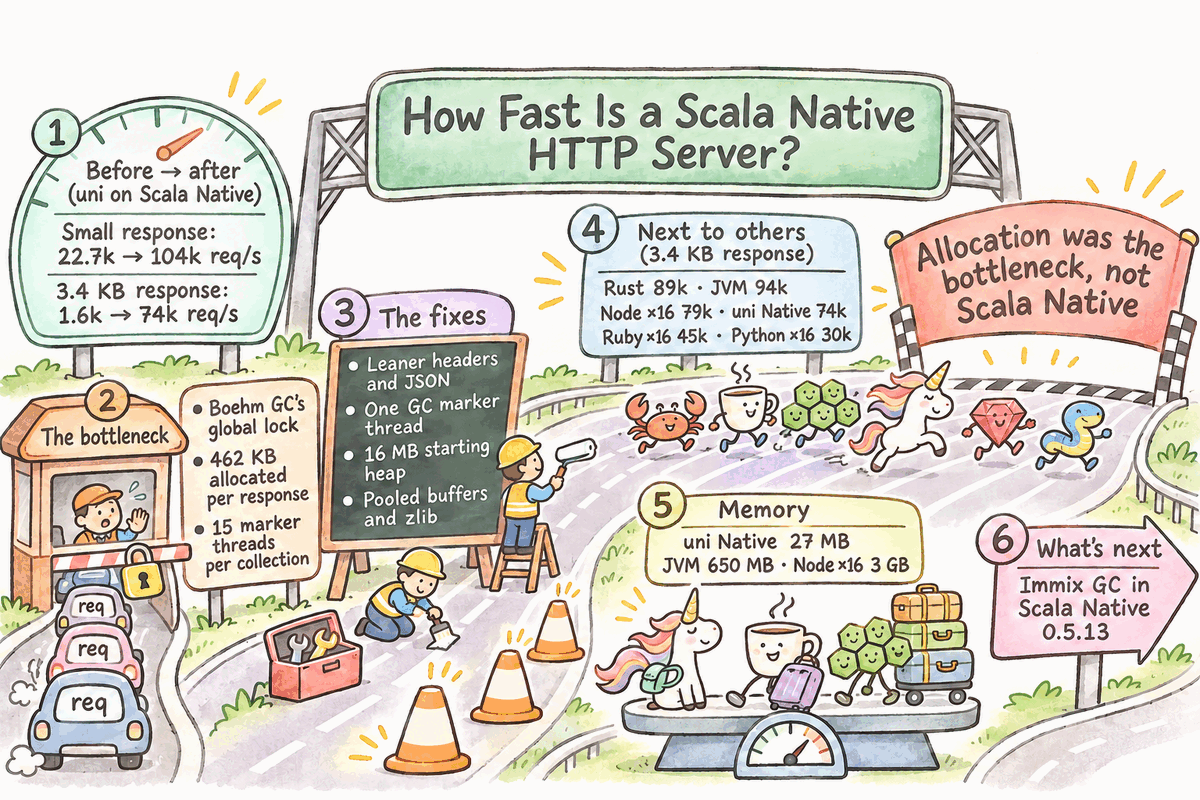
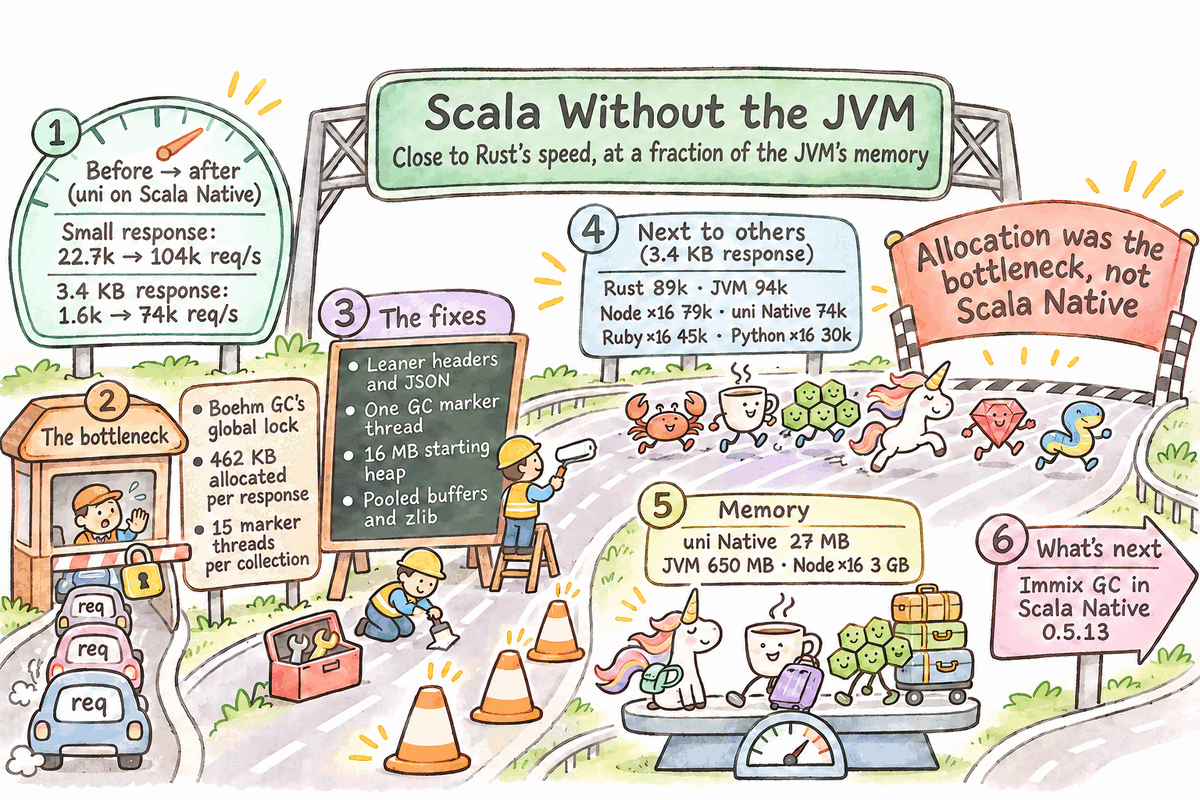
docs: Put the new title on the Native server post's visual summary

diff --git a/docs/blog/2026-11-19-native-server-performance.md b/docs/blog/2026-11-19-native-server-performance.md
@@ -14,7 +14,7 @@ A day earlier, the native server was about 5x slower than the JVM on the small r
 
 The bigger point: you can write Scala without being tied to the JVM. The same uni code runs on the JVM when you want its peak throughput, and as a small native binary when you want low memory and nothing to install.
 
-![How fast is a Scala Native HTTP server? A hand-drawn highway runs left to right. On the left, cars labelled "req" queue at one small toll booth with a padlock, beside a sign listing the bottleneck: Boehm GC's global lock, 462 KB allocated per response, and 15 marker threads per collection. A speedometer sign shows uni on Scala Native going from 22.7k to 104k req/s on a small response and from 1.6k to 74k req/s on a 3.4 KB one. In the middle, a road crew widens the road beside a chalkboard of fixes: leaner headers and JSON, one GC marker thread, a 16 MB starting heap, and pooled buffers and zlib. On the right, a unicorn races a crab, a coffee cup, green hexagons, a ruby, and a snake toward a finish banner reading "Allocation was the bottleneck, not Scala Native". Signs show the 3.4 KB results (Rust 89k, JVM 94k, Node ×16 79k, uni Native 74k, Ruby ×16 45k, Python ×16 30k), memory on a luggage scale (uni Native 27 MB, JVM 650 MB, Node ×16 3 GB), and what's next: Immix GC in Scala Native 0.5.13.](/blog/native-server-performance.webp)
+![Scala Without the JVM: close to Rust's speed, at a fraction of the JVM's memory. A hand-drawn highway runs left to right under an overhead sign with that title. On the left, cars labelled "req" queue at one small toll booth with a padlock, beside a sign listing the bottleneck: Boehm GC's global lock, 462 KB allocated per response, and 15 marker threads per collection. A speedometer sign shows uni on Scala Native going from 22.7k to 104k req/s on a small response and from 1.6k to 74k req/s on a 3.4 KB one. In the middle, a road crew widens the road beside a chalkboard of fixes: leaner headers and JSON, one GC marker thread, a 16 MB starting heap, and pooled buffers and zlib. On the right, a unicorn races a crab, a coffee cup, green hexagons, a ruby, and a snake toward a finish banner reading "Allocation was the bottleneck, not Scala Native". Signs show the 3.4 KB results (Rust 89k, JVM 94k, Node ×16 79k, uni Native 74k, Ruby ×16 45k, Python ×16 30k), memory on a luggage scale (uni Native 27 MB, JVM 650 MB, Node ×16 3 GB), and what's next: Immix GC in Scala Native 0.5.13.](/blog/native-server-performance.webp)
 
 ## Scala, without the JVM
 
